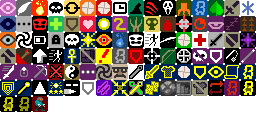
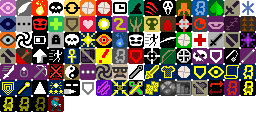
3.0.0:重制挑战“法力耗散”

Changed region(s): [[0.125, 0.75, 0.25, 0.875]]

diff --git a/core/src/main/java/com/shatteredpixel/shatteredpixeldungeon/actors/buffs/Exhaustion.java b/core/src/main/java/com/shatteredpixel/shatteredpixeldungeon/actors/buffs/Exhaustion.java
@@ -24,60 +24,38 @@ package com.shatteredpixel.shatteredpixeldungeon.actors.buffs;
 import com.shatteredpixel.shatteredpixeldungeon.actors.hero.Hero;
 import com.shatteredpixel.shatteredpixeldungeon.messages.Messages;
 import com.shatteredpixel.shatteredpixeldungeon.ui.BuffIndicator;
-import com.watabou.utils.Bundle;
-import com.watabou.utils.Random;
 
 public class Exhaustion extends FlavourBuff {
 
-	private int level = 0;
+	public static final int LAYER = 12;
+
+	{
+		actPriority = HERO_PRIO + 1;
+		type = buffType.NEGATIVE;
+	}
 
 	@Override
 	public int icon() {
-		return BuffIndicator.EXHAUSTION_START + level;
+		return BuffIndicator.EXHAUSTION_START + Math.min((int)cooldown() / LAYER, 3);
 	}
 
 	public static void stack(Hero hero) {
 		Exhaustion e = hero.buff(Exhaustion.class);
-		if (e == null) Buff.prolong(hero, Exhaustion.class, 3).level = 1;
-		else {
-			Buff.prolong(hero, Exhaustion.class, e.level + 3);
-			e.level++;
-			if (e.level >= 4){
-				e.level = 2;
-				int chance = Random.Int(20);
-				if (chance < 6)       Buff.prolong(hero, Hex.class,        5);
-				else if (chance < 11) Buff.prolong(hero, Weakness.class,   5);
-				else if (chance < 15) Buff.prolong(hero, Vulnerable.class, 5);
-				else if (chance < 18) Buff.prolong(hero, Slow.class,       5);
-				else                  Buff.prolong(hero, Degrade.class,    5);
-			}
-		}
+		if (e == null) Buff.prolong(hero, Exhaustion.class, 4);
+		else e.spend(e.cooldown() - 1);
 		BuffIndicator.refreshHero();
 	}
 
 	@Override
-	public void detach() {
-		level --;
-		super.detach();
-		if (level > 0) Buff.prolong(target, Exhaustion.class, (int)Math.pow(2, level-1) + 1).level = level;
-	}
-
-	@Override
 	public String desc() {
-		return Messages.get(this, "desc", level, dispTurns());
-	}
-
-	private static final String LEVEL = "level";
-
-	@Override
-	public void storeInBundle(Bundle bundle){
-		super.storeInBundle(bundle);
-		bundle.put(LEVEL, level);
+		String desc = Messages.get(this, "desc");
+		for (int i = 0; i < Math.min(cooldown() / LAYER, 4); i++)
+			desc += "\n" + Messages.get(this, "desc" + i);
+		return desc + Messages.get(this, "turn", dispTurns(cooldown()));
 	}
 
 	@Override
-	public void restoreFromBundle(Bundle bundle){
-		super.restoreFromBundle(bundle);
-		level = bundle.getInt(LEVEL);
+	public String iconTextDisplay() {
+		return Integer.toString((int)cooldown());
 	}
 }

diff --git a/core/src/main/java/com/shatteredpixel/shatteredpixeldungeon/items/wands/Wand.java b/core/src/main/java/com/shatteredpixel/shatteredpixeldungeon/items/wands/Wand.java
@@ -554,22 +554,20 @@ public abstract class Wand extends Item {
 			//inside staff, still need to apply degradation
 			if (charger.target == Dungeon.hero
 					&& !Dungeon.hero.belongings.contains(this)
-					&& Dungeon.hero.buff( Degrade.class ) != null){
+					&& Dungeon.hero.buff( Degrade.class ) != null)
 				lvl = Degrade.reduceLevel(lvl);
-			}
 
-			if (charger.target.buff(ScrollEmpower.class) != null){
-				lvl += 2;
-			}
+			Exhaustion e = charger.target.buff(Exhaustion.class);
+			if (e != null && e.cooldown() >= Exhaustion.LAYER) lvl -= 2;
 
-			if (curCharges <= 1 && charger.target instanceof Hero && ((Hero)charger.target).hasTalent(Talent.DESPERATE_POWER)){
+			if (charger.target.buff(ScrollEmpower.class) != null) lvl += 2;
+
+			if (curCharges <= 1 && charger.target instanceof Hero && ((Hero)charger.target).hasTalent(Talent.DESPERATE_POWER))
 				lvl += ((Hero)charger.target).pointsInTalent(Talent.DESPERATE_POWER);
-			}
 
 			if (charger.target instanceof Hero && ((Hero)charger.target).hasTalent(Talent.ARCANE_STEP)
-			&& charger.target.buff(Momentum.class)!=null && charger.target.buff(Momentum.class).freerunning()){
+			&& charger.target.buff(Momentum.class)!=null && charger.target.buff(Momentum.class).freerunning())
 				lvl += ((Hero)charger.target).pointsInTalent(Talent.ARCANE_STEP);
-			}
 
 			if (charger.target.buff(WildMagic.WildMagicTracker.class) != null){
 				int bonus = 4 + ((Hero)charger.target).pointsInTalent(Talent.WILD_POWER);
@@ -577,22 +575,17 @@ public abstract class Wand extends Item {
 				bonus /= 2; // +2/+2.5/+3/+3.5/+4 at 0/1/2/3/4 talent points
 
 				int maxBonusLevel = 3 + ((Hero)charger.target).pointsInTalent(Talent.WILD_POWER);
-				if (lvl < maxBonusLevel) {
-					lvl = Math.min(lvl + bonus, maxBonusLevel);
-				}
+				if (lvl < maxBonusLevel) lvl = Math.min(lvl + bonus, maxBonusLevel);
 			}
 
 			WandOfMagicMissile.MagicCharge buff = charger.target.buff(WandOfMagicMissile.MagicCharge.class);
-			if (buff != null && buff.level() > lvl){
-				return buff.level();
-			}
+			if (buff != null && buff.level() > lvl) return buff.level();
 
 			Switch s = charger.target.buff(Switch.class);
-			if (s != null && s.staffLevel > lvl){
+			if (s != null && s.staffLevel > lvl)
 				lvl = Math.min(lvl + 2 + Dungeon.hero.pointsInTalent(Talent.SHARED_ARCANA), s.staffLevel);
-			}
 		}
-		return lvl;
+		return Math.max(lvl, 0);
 	}
 
 	public void updateLevel() {
@@ -656,8 +649,7 @@ public abstract class Wand extends Item {
 		}
 
 		if (Dungeon.isChallenged(Challenges.MANA_EXHAUSTION))
-			for (int i = 0; i < (cursed ? 1 : chargesPerCast()); i++)
-				Exhaustion.stack(curUser);
+			for (int i = 0; i < (cursed ? 1 : chargesPerCast()); i++) Exhaustion.stack(curUser);
 		
 		curCharges -= cursed ? 1 : chargesPerCast();
 
@@ -765,6 +757,14 @@ public abstract class Wand extends Item {
 				timeModifier *= 1.5f;
 				tool.decreaseWandModDura();
 			}
+		}
+
+		Exhaustion e = Dungeon.hero.buff(Exhaustion.class);
+		if (e != null) {
+			if (e.cooldown() > 2 * Exhaustion.LAYER)
+				timeModifier *= 1.5f;
+			if (e.cooldown() > 3 * Exhaustion.LAYER)
+				Dungeon.hero.damage(Math.round(Dungeon.hero.lvl / 2f), this);
 		}
 
 		curUser.spendAndNext(TIME_TO_ZAP * timeModifier);
@@ -1164,7 +1164,7 @@ public abstract class Wand extends Item {
 				turnsToCharge /= 2f;
 			}
 
-			if (Regeneration.regenOn())
+			if (Regeneration.regenOn() && Dungeon.hero.buff(Exhaustion.class) == null)
 				partialCharge += (1f/turnsToCharge) * RingOfEnergy.wandChargeMultiplier(target);
 
 			for (Recharging bonus : target.buffs(Recharging.class)){

diff --git a/core/src/main/java/com/shatteredpixel/shatteredpixeldungeon/ui/BuffIndicator.java b/core/src/main/java/com/shatteredpixel/shatteredpixeldungeon/ui/BuffIndicator.java
@@ -145,10 +145,11 @@ public class BuffIndicator extends Component {
 	public static final int BROKEN_ARMOR= 92;
 	public static final int LIFELOAN    = 93;
 	public static final int EVILUNFOLD  = 94;
-		public static final int EXHAUSTION_START = 94;
-	/*two extra icons for exhaustion
+	public static final int EXHAUSTION_START = 95;
+	/*
+		three extra icons for exhaustion
 	*/
-	public static final int PARASITE    = 98;
+	public static final int PARASITE    = 99;
 
 	public static final int SIZE_SMALL  = 7;
 	public static final int SIZE_LARGE  = 16;

diff --git a/core/src/main/java/com/shatteredpixel/shatteredpixeldungeon/actors/hero/Talent.java b/core/src/main/java/com/shatteredpixel/shatteredpixeldungeon/actors/hero/Talent.java
@@ -22,7 +22,6 @@
 package com.shatteredpixel.shatteredpixeldungeon.actors.hero;
 
 import com.shatteredpixel.shatteredpixeldungeon.Assets;
-import com.shatteredpixel.shatteredpixeldungeon.Challenges;
 import com.shatteredpixel.shatteredpixeldungeon.Dungeon;
 import com.shatteredpixel.shatteredpixeldungeon.GamesInProgress;
 import com.shatteredpixel.shatteredpixeldungeon.ShatteredPixelDungeon;
@@ -39,7 +38,6 @@ import com.shatteredpixel.shatteredpixeldungeon.actors.buffs.Burning;
 import com.shatteredpixel.shatteredpixeldungeon.actors.buffs.CounterBuff;
 import com.shatteredpixel.shatteredpixeldungeon.actors.buffs.Cripple;
 import com.shatteredpixel.shatteredpixeldungeon.actors.buffs.EnhancedRings;
-import com.shatteredpixel.shatteredpixeldungeon.actors.buffs.Exhaustion;
 import com.shatteredpixel.shatteredpixeldungeon.actors.buffs.FlavourBuff;
 import com.shatteredpixel.shatteredpixeldungeon.actors.buffs.Haste;
 import com.shatteredpixel.shatteredpixeldungeon.actors.buffs.Invisibility;
@@ -1374,8 +1372,6 @@ public enum Talent {
             hero.HP += toHeal;
             hero.sprite.showStatusWithIcon(CharSprite.POSITIVE, Integer.toString(toHeal), FloatingText.HEALING);
         }
-
-		if (Dungeon.isChallenged(Challenges.MANA_EXHAUSTION)) Exhaustion.stack(hero); //such weird to proc it here
 	}
 
 	public static void onRunestoneUsed( Hero hero, int pos, Class<?extends Item> cls ){